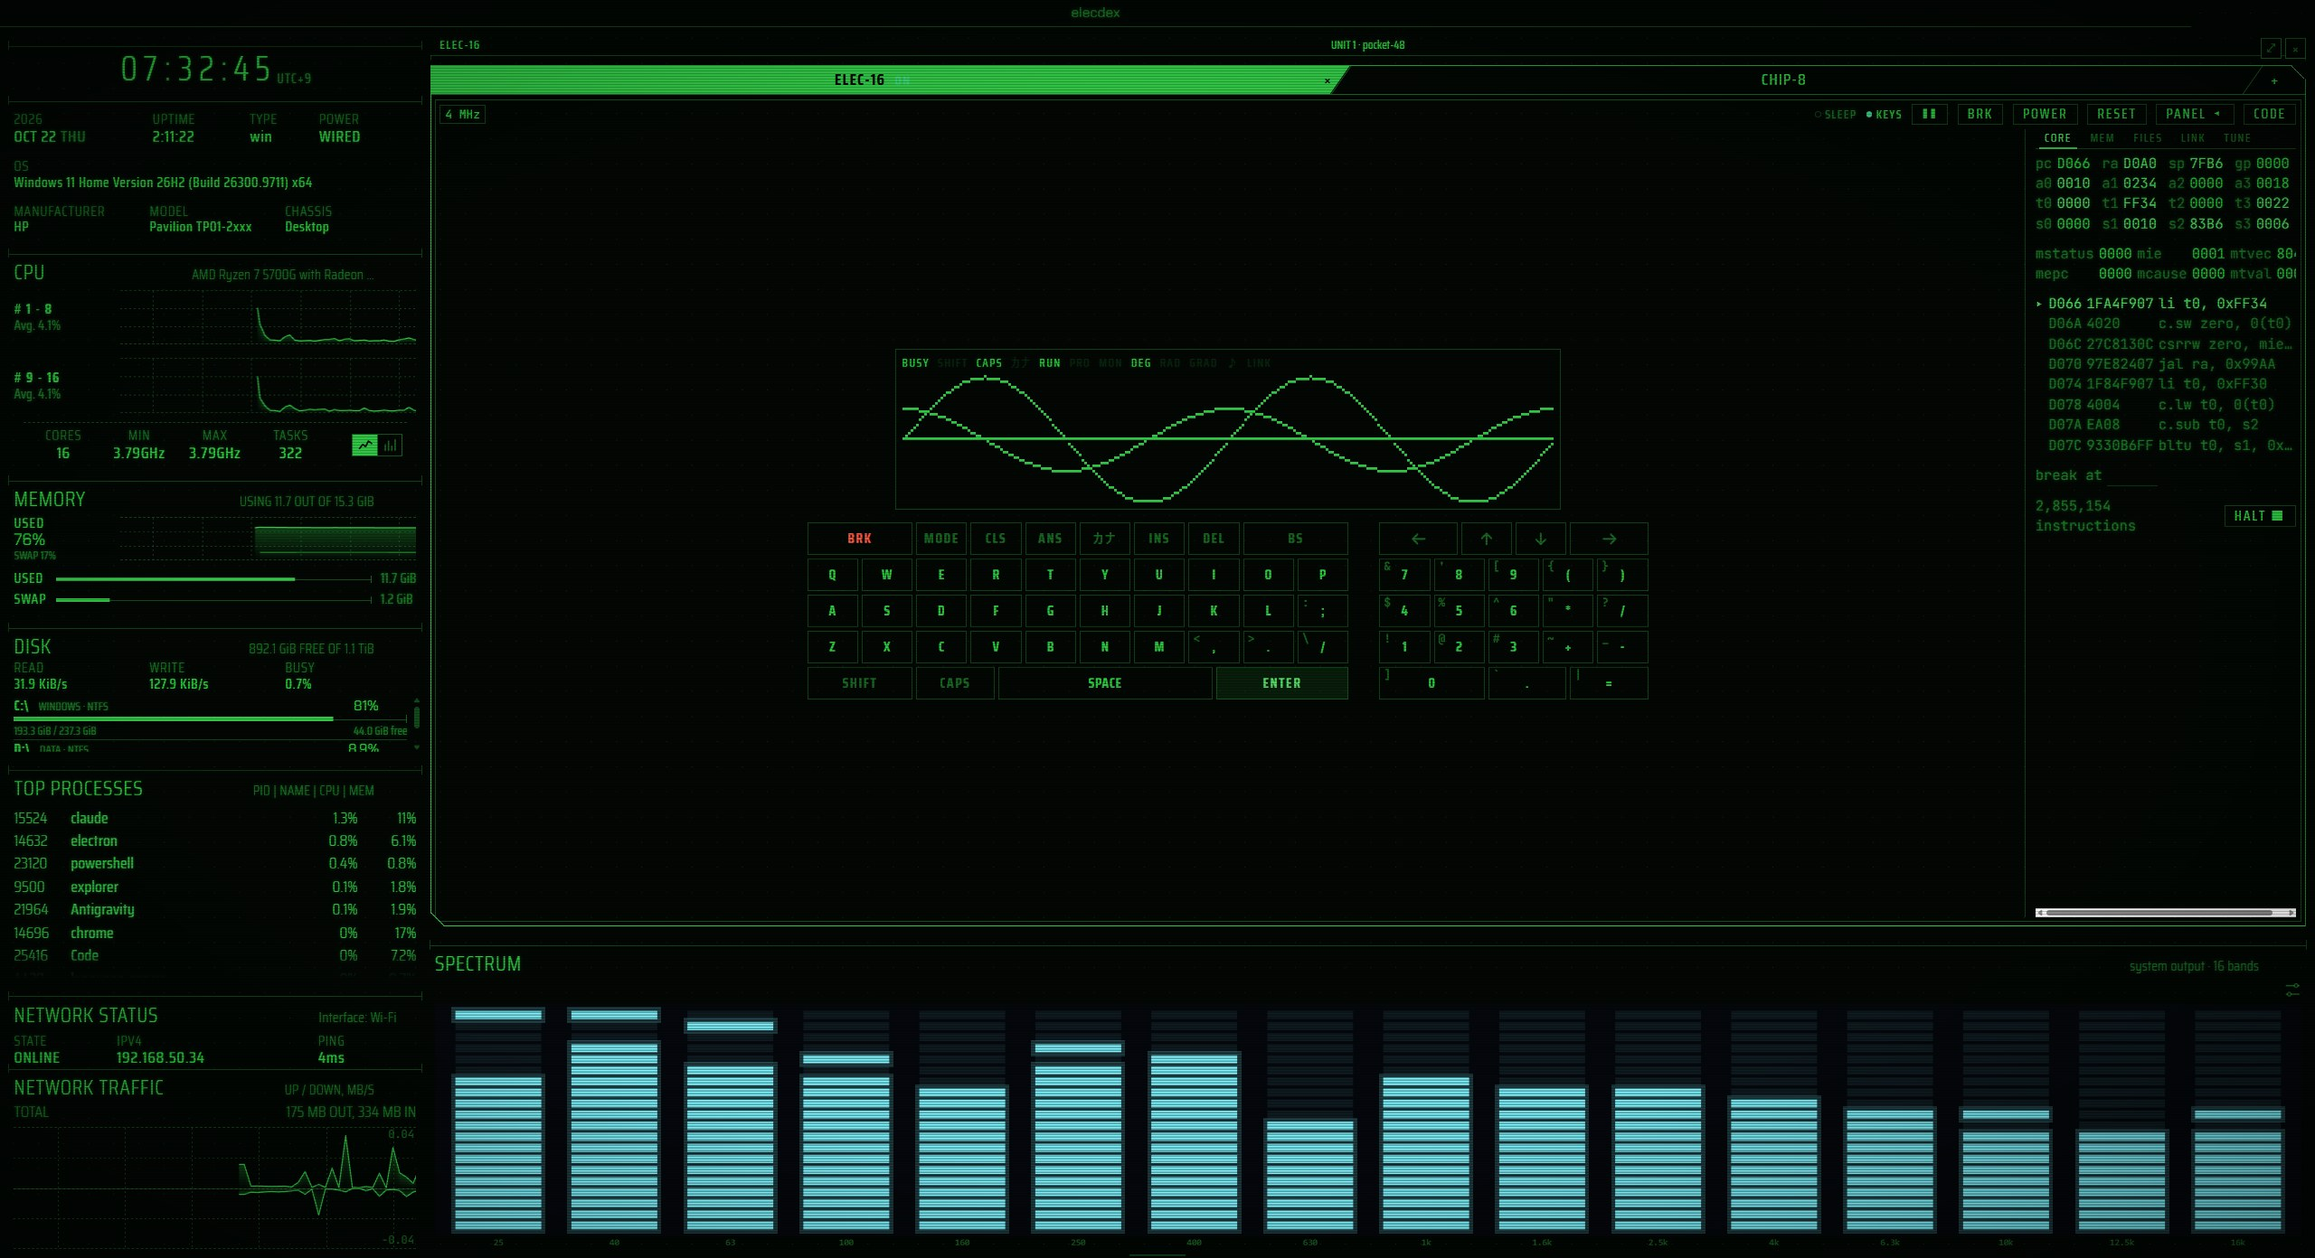
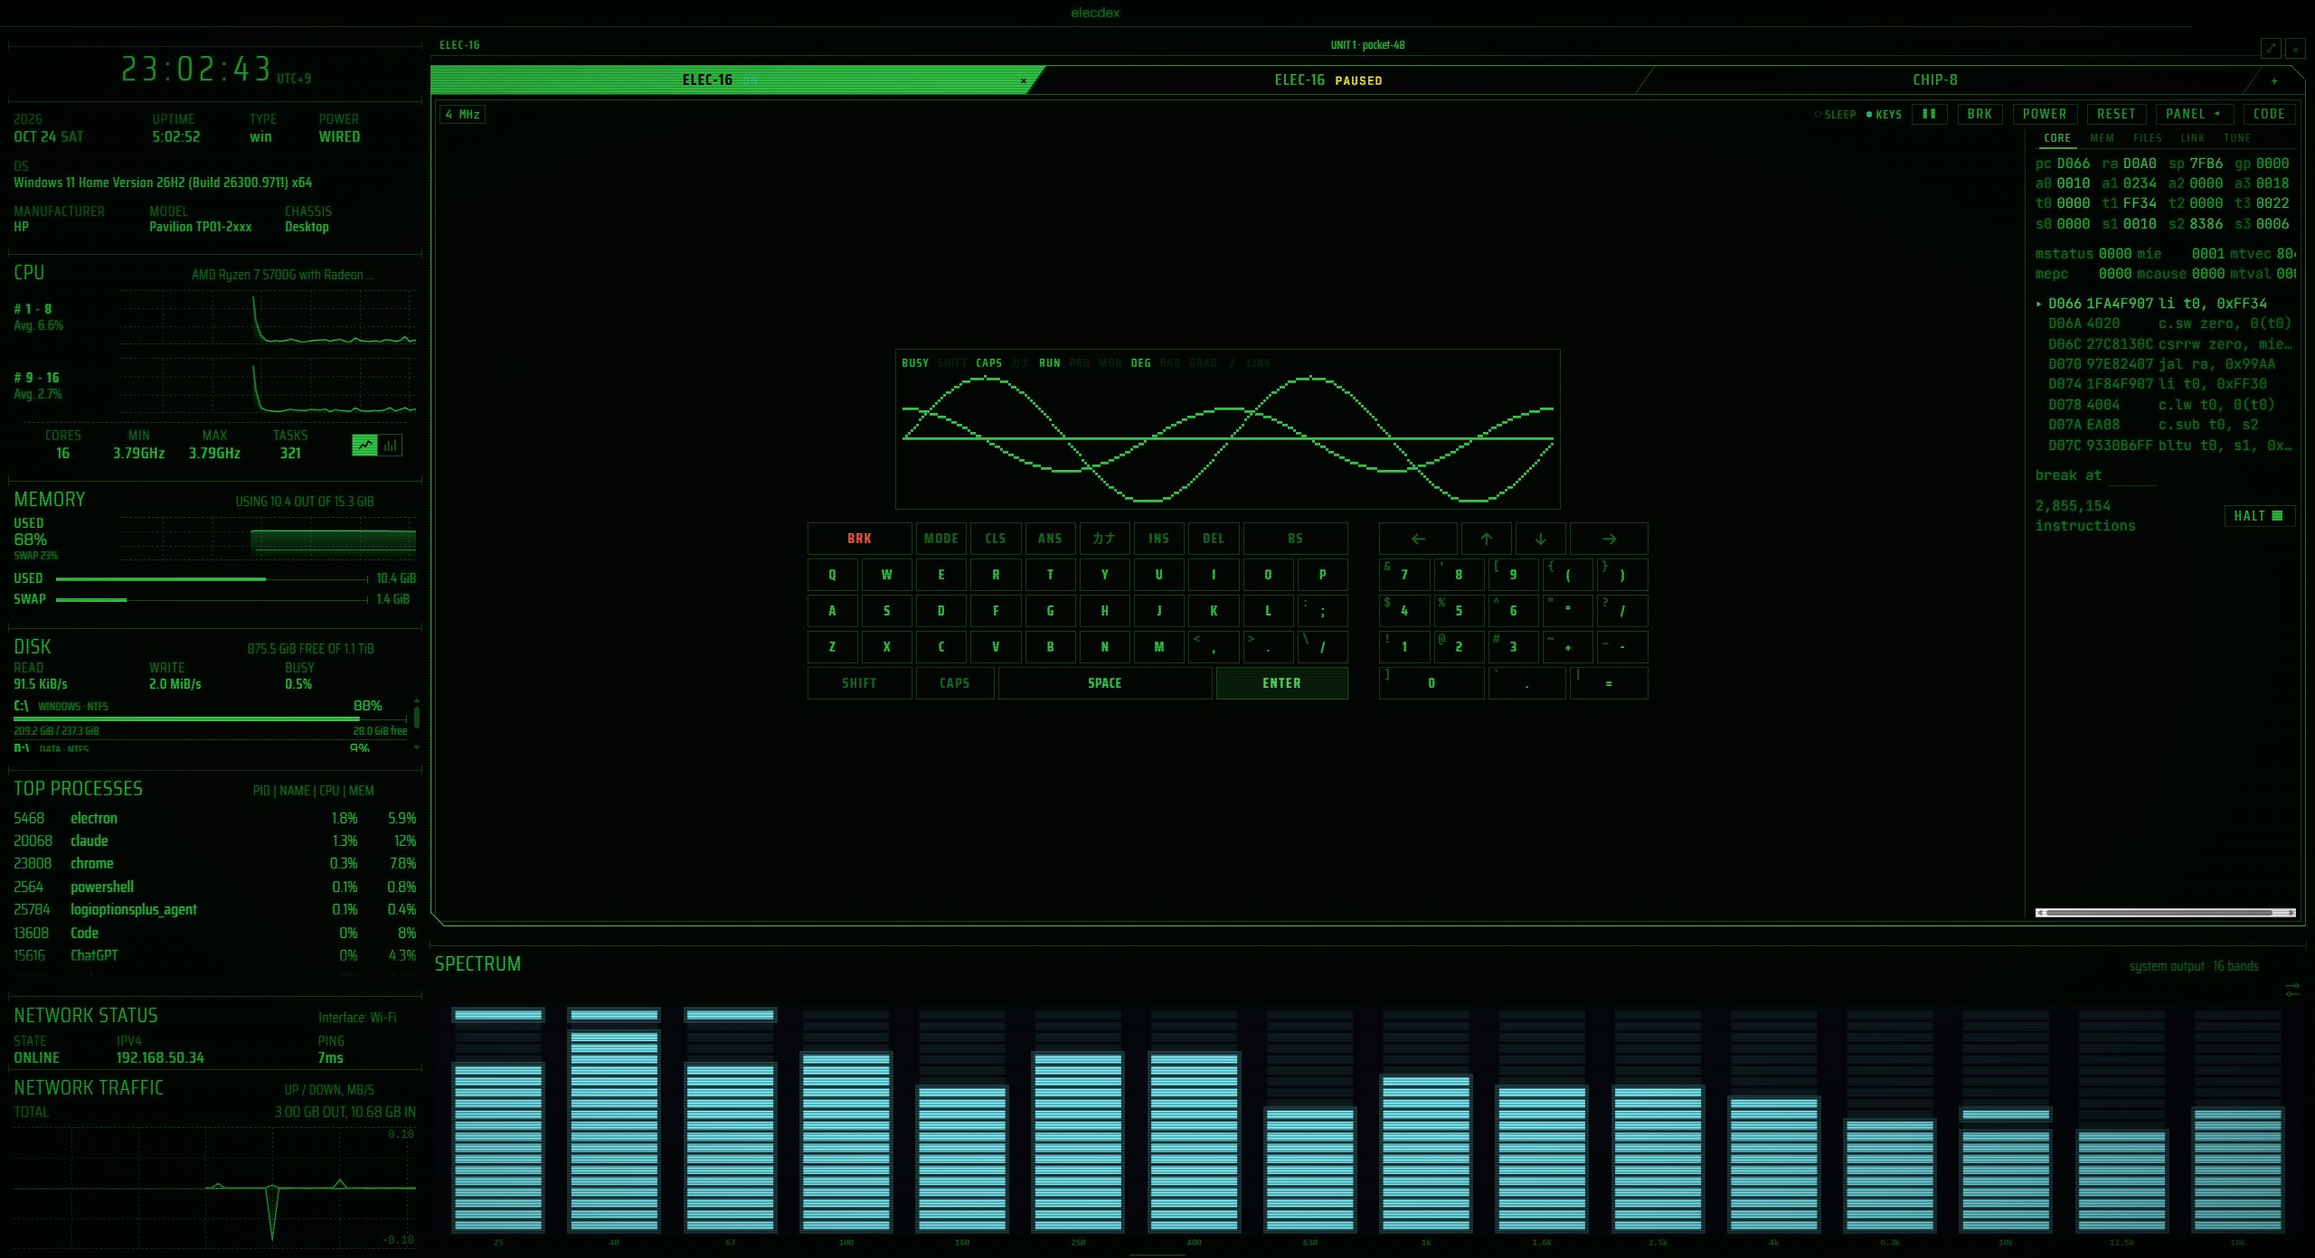
feat(layout): ELEC-16 SCI as a tab of the retro and desk presets / retro と desk のプリセットに ELEC-16 SCI のタブ
retro's tab strip is ELEC-16, ELEC-16 SCI, CHIP-8; desk's last column puts ELEC-16 SCI behind the utility pane's tab. The calculator's pane starts on a new SCI-128 unit with its panel folded, so its body has the room. The tour gives that pane its own unit, the README shots and texts follow. / retro のタブは ELEC-16、ELEC-16 SCI、CHIP-8。desk の右の列は Utility のタブの後ろに ELEC-16 SCI。電卓のペインは新しい SCI-128 のユニットで始まり、本体に場所があるようパネルを閉じておく。ツアーはそのペインに自分のユニットを渡し、README の画像と文も直した。

diff --git a/src/shared/layout-presets.ts b/src/shared/layout-presets.ts
@@ -50,6 +50,13 @@ export interface LayoutPreset {
   build: () => LayoutNode
 }
 
+/**
+ * The calculator ELEC-16 SCI as a preset's tab (user's request 2026-10-24): a pane that starts on
+ * a new SCI-128 unit, as the picker's own row does (docs/elec16-sci.md section 8.1), its panel
+ * folded so the body has the room - with the panel out, a tab's room shows the LCD alone.
+ */
+const sciPane = () => pane('elec16', { state: { fresh: 'sci-128', panel: false } })
+
 /** The rest of the width after the system column, shared out by `stage`. */
 const STAGE = 1 - SYSTEM_COLUMN_WIDTH
 
@@ -164,11 +171,12 @@ export const LAYOUT_PRESETS: readonly LayoutPreset[] = [
     // utility pane, whose QR code wants a square and whose AWAKE hold should be
     // in sight. No shell - the one preset for writing, counting and keeping
     // time. The clipboard pane is on screen here, not a tab: it reads the
-    // clipboard only while it is seen.
+    // clipboard only while it is seen. The calculator ELEC-16 SCI is a tab beside the
+    // utility pane (user's request 2026-10-24).
     id: 'desk',
     name: 'desk',
     description:
-      'notes, tasks, a calendar, a timer, a calculator, what you copied and the utilities',
+      'notes, tasks, a calendar, a timer, two calculators, what you copied and the utilities',
     build: () =>
       withSystemColumn(
         [
@@ -178,7 +186,7 @@ export const LAYOUT_PRESETS: readonly LayoutPreset[] = [
             [0.62, 0.38],
           ),
           split('column', [pane('todo'), pane('clipboard')], [0.55, 0.45]),
-          split('column', [pane('calendar'), pane('utility')], [0.42, 0.58]),
+          split('column', [pane('calendar'), tabs([pane('utility'), sciPane()])], [0.42, 0.58]),
         ],
         [0.38, 0.31, 0.31],
       ),
@@ -224,16 +232,21 @@ export const LAYOUT_PRESETS: readonly LayoutPreset[] = [
     // The two machines elecdex runs in one pane, the ELEC-16 in front, and under them the
     // spectrum at sixteen bands: the column the standard layout gives its stage, one pane
     // for whichever machine is played and its sound beside nothing else (user's request
-    // 2026-10-04). Out of sight, the machine behind its tab is paused.
+    // 2026-10-04). The calculator ELEC-16 SCI is a tab between them (user's request
+    // 2026-10-24). Out of sight, the machine behind its tab is paused.
     id: 'retro',
     name: 'retro',
-    description: 'the ELEC-16 and the CHIP-8 behind one tab strip, and the sound as sixteen bands',
+    description:
+      'the ELEC-16, its calculator and the CHIP-8 behind one tab strip, and the sound as sixteen bands',
     build: () =>
       withSystemColumn(
         [
           split(
             'column',
-            [tabs([pane('elec16'), pane('chip8')]), pane('spectrum', { state: { bands: 16 } })],
+            [
+              tabs([pane('elec16'), sciPane(), pane('chip8')]),
+              pane('spectrum', { state: { bands: 16 } }),
+            ],
             [0.74, 0.26],
           ),
         ],

diff --git a/tests/unit/layout-presets.test.ts b/tests/unit/layout-presets.test.ts
@@ -230,20 +230,38 @@ describe('LAYOUT_PRESETS', () => {
     }
   })
 
-  it('puts both machines behind one tab strip in retro, the spectrum under them at 16 bands', () => {
-    expect(places('retro')).toEqual([['elec16', 'chip8'], ['spectrum']])
-    const tree = (presetById('retro') as LayoutPreset).build()
+  /** A preset's panes, in the tree's order. */
+  function panesOf(id: string): PaneNode[] {
     const panes: PaneNode[] = []
     const walk = (node: LayoutNode): void => {
       if (node.kind === 'pane') panes.push(node)
       else for (const child of node.children) walk(child as LayoutNode)
     }
-    walk(tree)
+    walk((presetById(id) as LayoutPreset).build())
+    return panes
+  }
+
+  it('puts the machines behind one tab strip in retro - ELEC-16, its calculator, CHIP-8 - the spectrum under them at 16 bands', () => {
+    expect(places('retro')).toEqual([['elec16', 'elec16', 'chip8'], ['spectrum']])
+    const panes = panesOf('retro')
     expect(panes.find((p) => p.widget === 'spectrum')?.state).toEqual({ bands: 16 })
+    // The second ELEC-16 is the calculator: a new SCI-128 unit, its panel folded (user's request 2026-10-24).
+    expect(panes.filter((p) => p.widget === 'elec16').map((p) => p.state)).toEqual([
+      undefined,
+      { fresh: 'sci-128', panel: false },
+    ])
     const shape = layoutShape(presetTree(presetById('retro') as LayoutPreset))
     const at = (widget: string) => shape.find((r) => r.widget === widget)
     expect(at('elec16')?.h ?? 0).toBeGreaterThan(at('spectrum')?.h ?? 0)
     expect(at('elec16')?.w).toBe(at('spectrum')?.w)
+  })
+
+  it('gives desk the calculator ELEC-16 SCI as a tab beside the utility pane, its panel folded', () => {
+    expect(places('desk')).toContainEqual(['utility', 'elec16'])
+    expect(panesOf('desk').find((p) => p.widget === 'elec16')?.state).toEqual({
+      fresh: 'sci-128',
+      panel: false,
+    })
   })
 
   /** Each pane behind a tab, with the room its tab group is given. */

diff --git a/README.ja.md b/README.ja.md
@@ -135,7 +135,7 @@ elecdex を最初に開いたときの配置で、ページ冒頭の画像がこ
 ### desk — 書く、数える、時間を計る
 
 <p align="center">
-  <img src="./docs/screenshots/elecdex-desk.jpg" alt="Business (Light) テーマの desk プリセット：リリースのチェックリストを書いたメモペインとその下のタイマーと電卓、期限をメーターで描くタスクペインとその下の架空のコピーを並べたクリップボード履歴、1 か月のカレンダーとその下にプロジェクトのアドレスの QR コードを出す Utility ペイン">
+  <img src="./docs/screenshots/elecdex-desk.jpg" alt="Business (Light) テーマの desk プリセット：リリースのチェックリストを書いたメモペインとその下のタイマーと電卓、期限をメーターで描くタスクペインとその下の架空のコピーを並べたクリップボード履歴、1 か月のカレンダーとその下にプロジェクトのアドレスの QR コードを出す Utility ペイン、そのタブの後ろに関数電卓 ELEC-16 SCI">
   <br><sub>desk · Business (Light)</sub>
 </p>
 
@@ -188,7 +188,7 @@ elecdex を最初に開いたときの配置で、ページ冒頭の画像がこ
 ### retro — elecdex の 2 台の機械と、その音
 
 <p align="center">
-  <img src="./docs/screenshots/elecdex-retro.jpg" alt="Phosphor テーマの retro プリセット：左にシステムの列、右に ELEC-16 と CHIP-8 をタブにした 1 つのペイン。手前の ELEC-16 は PLAIN スキンで、本体の枠がなく、平らな画面に緑の正弦波を 3 本描き、キーはアプリの平らなボタンの形。横にレジスタとコード。その下に 16 バンドのスペクトラム">
+  <img src="./docs/screenshots/elecdex-retro.jpg" alt="Phosphor テーマの retro プリセット：左にシステムの列、右に ELEC-16、その関数電卓 ELEC-16 SCI、CHIP-8 をタブにした 1 つのペイン。手前の ELEC-16 は PLAIN スキンで、本体の枠がなく、平らな画面に緑の正弦波を 3 本描き、キーはアプリの平らなボタンの形。横にレジスタとコード。その下に 16 バンドのスペクトラム">
   <br><sub>retro · Phosphor · ELEC-16 は PLAIN スキン</sub>
 </p>
 
@@ -247,7 +247,7 @@ elecdex を最初に開いたときの配置で、ページ冒頭の画像がこ
 - **ELEC-16** — elecdex が独自に設計した 16 ビットのポケコン。自前の RISC の
   CPU、ROM の BASIC と機械語モニタ、液晶とキーボード、記憶カード、TypeScript をその機械語に
   コンパイルする CODE 画面、そして AI と話す LINK。**PLAY-320** にすると、カートリッジ、
-  スプライト、音 16 チャンネルのゲーム機になり、ELECLANCE、ELECAIRCOMBAT、ELECDRILL と 1 対 1 の対戦格闘 ELECFIGHTERの 4 本のゲームと、ゲームを作るキットが付きます。**ELEC-16 SCI**（*unreleased*）
+  スプライト、音 16 チャンネルのゲーム機になり、ELECLANCE、ELECAIRCOMBAT、ELECDRILL と 1 対 1 の対戦格闘 ELECFIGHTERの 4 本のゲームと、ゲームを作るキットが付きます。**ELEC-16 SCI**（*unreleased*。retro と desk のタブにもある）
   として選ぶと関数電卓になります。式は教科書の形で組まれ、答えは分数や根号のまま残り、STATS、BASE、TABLE、EQUATION のモードがあります。
 
 ### レイアウト、見た目、そのほか

diff --git a/README.md b/README.md
@@ -138,7 +138,7 @@ The arrangement elecdex opens with, in the picture at the top (Tron).
 ### desk — writing, counting and keeping time
 
 <p align="center">
-  <img src="./docs/screenshots/elecdex-desk.jpg" alt="The desk preset in the Business (Light) theme: a notes pane with a release checklist, a timer and a calculator under it; a tasks pane with deadlines drawn as meters over a clipboard history of made-up copies; a month's calendar over the utility pane showing a QR code for the project's address">
+  <img src="./docs/screenshots/elecdex-desk.jpg" alt="The desk preset in the Business (Light) theme: a notes pane with a release checklist, a timer and a calculator under it; a tasks pane with deadlines drawn as meters over a clipboard history of made-up copies; a month's calendar over the utility pane showing a QR code for the project's address, the calculator ELEC-16 SCI behind its tab">
   <br><sub>desk · Business (Light)</sub>
 </p>
 
@@ -148,7 +148,8 @@ The arrangement elecdex opens with, in the picture at the top (Tron).
   a stopwatch whose laps stack up like a spectrum, countdowns that run beside it, and alarms for
   the times the day is built around. A clipboard history, under the tasks, of
   what you copy while it is on screen, to put back with a click, and under the calendar the
-  utility pane (keep the machine awake, QR codes, encoding and hashes).
+  utility pane (keep the machine awake, QR codes, encoding and hashes) with the scientific
+  calculator ELEC-16 SCI behind its tab (*unreleased*).
 
 ### ai — two conversations, a council, and the GPU they run on
 
@@ -193,7 +194,7 @@ The arrangement elecdex opens with, in the picture at the top (Tron).
 ### retro — two machines of elecdex's own, and the sound
 
 <p align="center">
-  <img src="./docs/screenshots/elecdex-retro.jpg" alt="The retro preset in the Phosphor theme: the system column on the left; on the right one pane with ELEC-16 and CHIP-8 as tabs, the ELEC-16 in front in its PLAIN skin - no case, a flat screen drawing three sine waves in green, the keys as the app's own flat buttons - with the registers and the code beside it; under it the spectrum at sixteen bands">
+  <img src="./docs/screenshots/elecdex-retro.jpg" alt="The retro preset in the Phosphor theme: the system column on the left; on the right one pane with ELEC-16, its calculator ELEC-16 SCI and CHIP-8 as tabs, the ELEC-16 in front in its PLAIN skin - no case, a flat screen drawing three sine waves in green, the keys as the app's own flat buttons - with the registers and the code beside it; under it the spectrum at sixteen bands">
   <br><sub>retro · Phosphor · the ELEC-16 in its PLAIN skin</sub>
 </p>
 
@@ -254,8 +255,8 @@ The arrangement elecdex opens with, in the picture at the top (Tron).
   a CODE view that compiles TypeScript into its machine code, and LINK to talk with the AI.
   Made a **PLAY-320**, it is a game console with cartridges, sprites and sixteen sound
   channels, with games of its own - ELECLANCE, ELECAIRCOMBAT, ELECDRILL and the one-on-one
-  fighter ELECFIGHTER - and a kit to make games for it. Picked as **ELEC-16 SCI** (*unreleased*),
-  it is a scientific calculator: lines set as a textbook sets them, answers kept as fractions
+  fighter ELECFIGHTER - and a kit to make games for it. Picked as **ELEC-16 SCI** (*unreleased*,
+  a tab of retro and desk), it is a scientific calculator: lines set as a textbook sets them, answers kept as fractions
   and roots, and STATS, BASE, TABLE and EQUATION modes.
 
 ### Layouts, looks and the rest

diff --git a/README.zh-CN.md b/README.zh-CN.md
@@ -123,7 +123,7 @@ elecdex 启动时的默认布局，即页首那张图（Tron）。
 ### desk — 写字、计算和掌握时间
 
 <p align="center">
-  <img src="./docs/screenshots/elecdex-desk.jpg" alt="Business (Light) 主题下的 desk 预设：记事窗格里是一份发布检查清单，下面是计时器和计算器；任务窗格把截止时间画成仪表，下面是虚构复制内容的剪贴板历史；一个月的日历，下面的实用工具窗格显示项目地址的二维码">
+  <img src="./docs/screenshots/elecdex-desk.jpg" alt="Business (Light) 主题下的 desk 预设：记事窗格里是一份发布检查清单，下面是计时器和计算器；任务窗格把截止时间画成仪表，下面是虚构复制内容的剪贴板历史；一个月的日历，下面的实用工具窗格显示项目地址的二维码，其标签页后面是函数计算器 ELEC-16 SCI">
   <br><sub>desk · Business (Light)</sub>
 </p>
 
@@ -171,7 +171,7 @@ elecdex 启动时的默认布局，即页首那张图（Tron）。
 ### retro — elecdex 自己的两台机器，以及声音
 
 <p align="center">
-  <img src="./docs/screenshots/elecdex-retro.jpg" alt="Phosphor 主题的 retro 预设：左侧是系统栏；右侧是一个把 ELEC-16 和 CHIP-8 作为标签页的窗格，前面的 ELEC-16 使用 PLAIN 外观——没有机身，平整的屏幕上用绿色画着三条正弦波，按键是应用自己的扁平按钮——旁边是寄存器和代码；下方是 16 段的频谱">
+  <img src="./docs/screenshots/elecdex-retro.jpg" alt="Phosphor 主题的 retro 预设：左侧是系统栏；右侧是一个把 ELEC-16、它的函数计算器 ELEC-16 SCI 和 CHIP-8 作为标签页的窗格，前面的 ELEC-16 使用 PLAIN 外观——没有机身，平整的屏幕上用绿色画着三条正弦波，按键是应用自己的扁平按钮——旁边是寄存器和代码；下方是 16 段的频谱">
   <br><sub>retro · Phosphor · ELEC-16 使用 PLAIN 外观</sub>
 </p>
 
@@ -230,7 +230,7 @@ elecdex 启动时的默认布局，即页首那张图（Tron）。
 - **ELEC-16** — elecdex 自行设计的 16 位袖珍电脑：自己的 RISC CPU、ROM 中的
   BASIC 和机器码监视器、液晶和键盘、存储卡、把 TypeScript 编译成它的机器码的 CODE 画面，以及与 AI
   对话的 LINK。变成 **PLAY-320** 后，它是一台带卡带、精灵和 16 个声道的游戏机，附带纵版射击游戏
-  ELECLANCE、空战游戏 ELECAIRCOMBAT、方块解谜 ELECDRILL、一对一格斗游戏 ELECFIGHTER四款游戏和制作游戏的工具包。选作 **ELEC-16 SCI**（*unreleased*）时，它是一台函数计算器：
+  ELECLANCE、空战游戏 ELECAIRCOMBAT、方块解谜 ELECDRILL、一对一格斗游戏 ELECFIGHTER四款游戏和制作游戏的工具包。选作 **ELEC-16 SCI**（*unreleased*，也是 retro 和 desk 中的标签页）时，它是一台函数计算器：
   算式像教科书一样排版，答案保留分数和根号，并有 STATS、BASE、TABLE、EQUATION 模式。
 
 ### 布局、外观及其他
